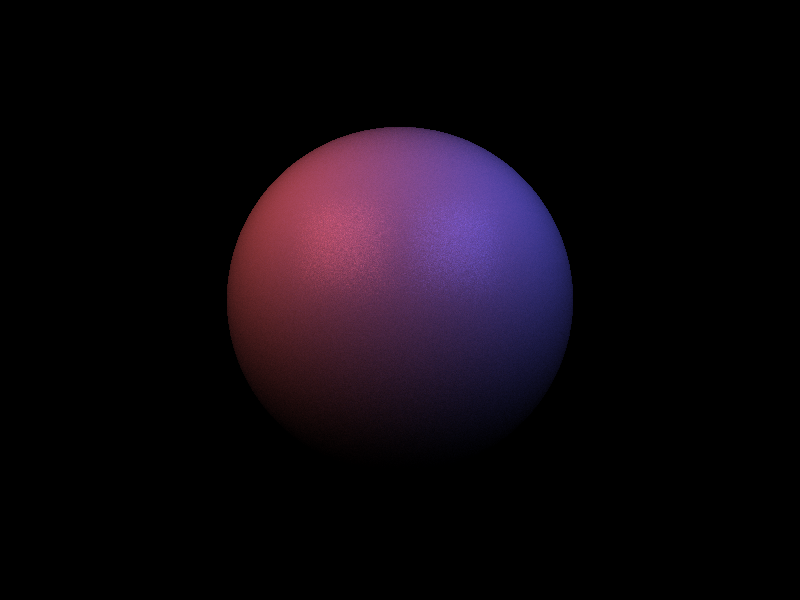
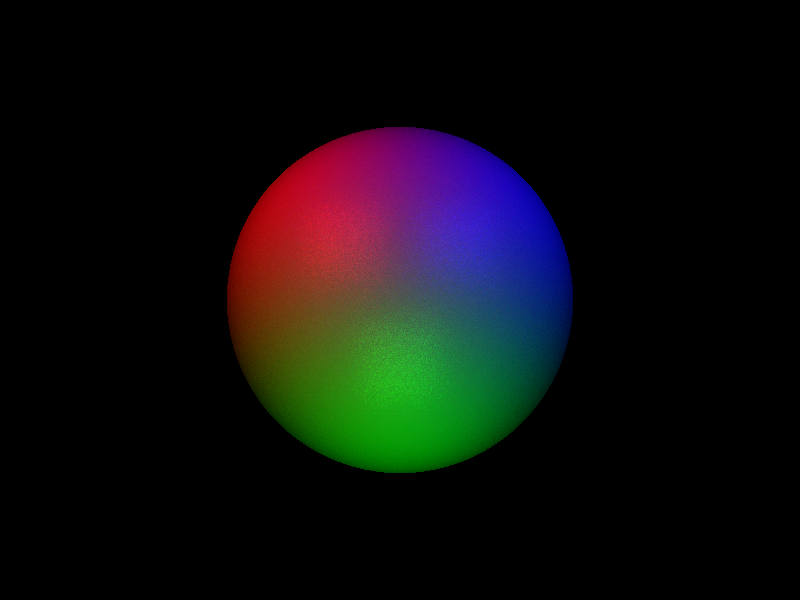
rt: fixed light blending

Changed region(s): [[0.2812, 0.21, 0.7188, 0.81]]

diff --git a/src/bin/raytrace.rs b/src/bin/raytrace.rs
@@ -143,6 +143,10 @@ impl Vec3f {
     fn reflect(self, n: Vec3f) -> Vec3f {
         self - n * (2.0 * (self * n))
     }
+
+    fn hadam(self, rhs: Vec3f) -> Vec3f {
+        Vec3f(self.0 * rhs.0, self.1 * rhs.1, self.2 * rhs.2)
+    }
 }
 
 impl std::ops::Add for Vec3f {
@@ -364,7 +368,7 @@ impl Renderer {
                 let specular = (-ray.dir.reflect(norm) * l.norm()).max(0.0).powi(32);
 
                 let power = light.pwr * (diffuse + specular) / (2.0 * l.mag().powi(2));
-                color += (self.mat.albedo + light.color / 2.0) * power;
+                color += (self.mat.albedo.hadam(light.color)) * power;
             }
         }
         color

diff --git a/README.md b/README.md
@@ -40,13 +40,18 @@ TBD...
             "pos": [0, 0, 0],
             "r": 0.5,
             "mat": {
-                "albedo": [0.3, 0.3, 0.3],
+                "albedo": [1, 1, 1],
                 "rough": 0.5,
                 "metal": 0
             }
         }
     ],
     "light": [
+        {
+            "pos": [0, -1, -0.5],
+            "pwr": 0.5,
+            "color": [0, 1, 0]
+        },
         {
             "pos": [-0.5, -1, 0.5],
             "pwr": 0.8,
